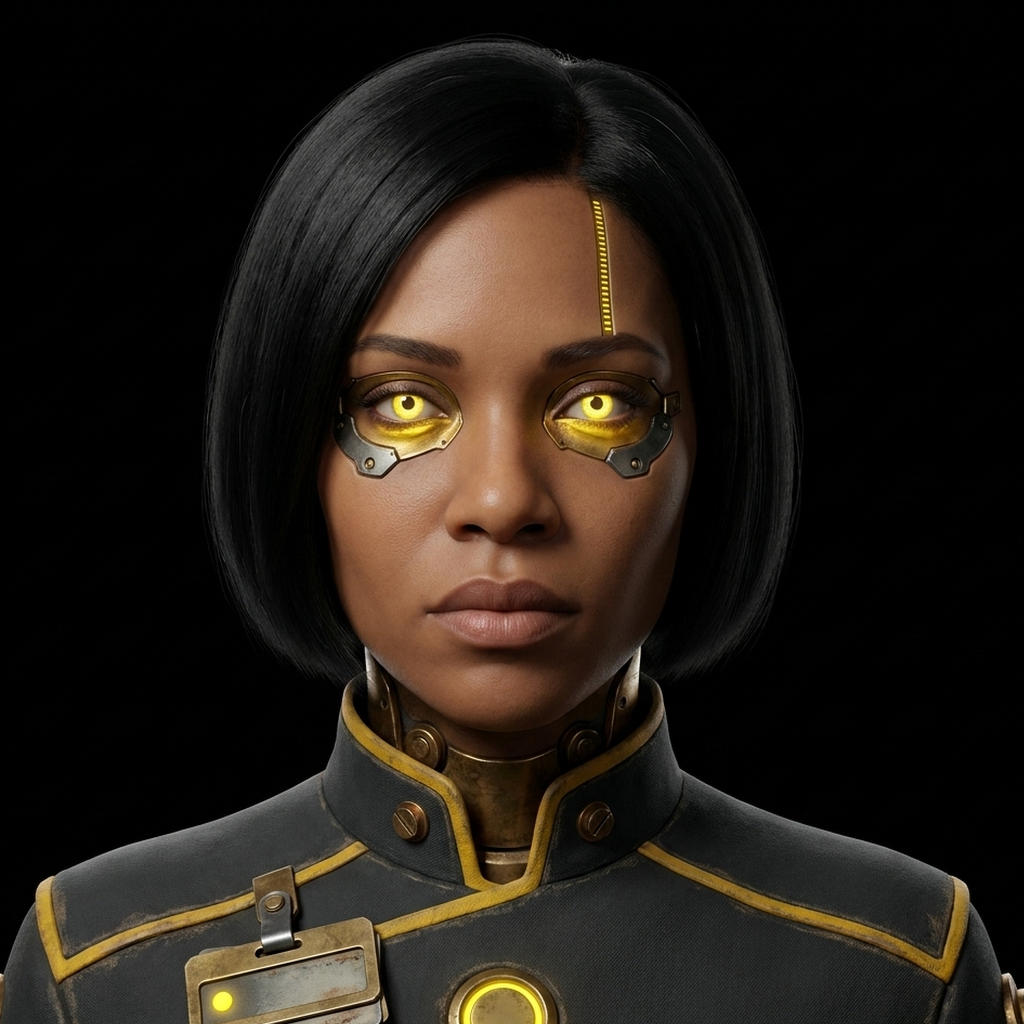
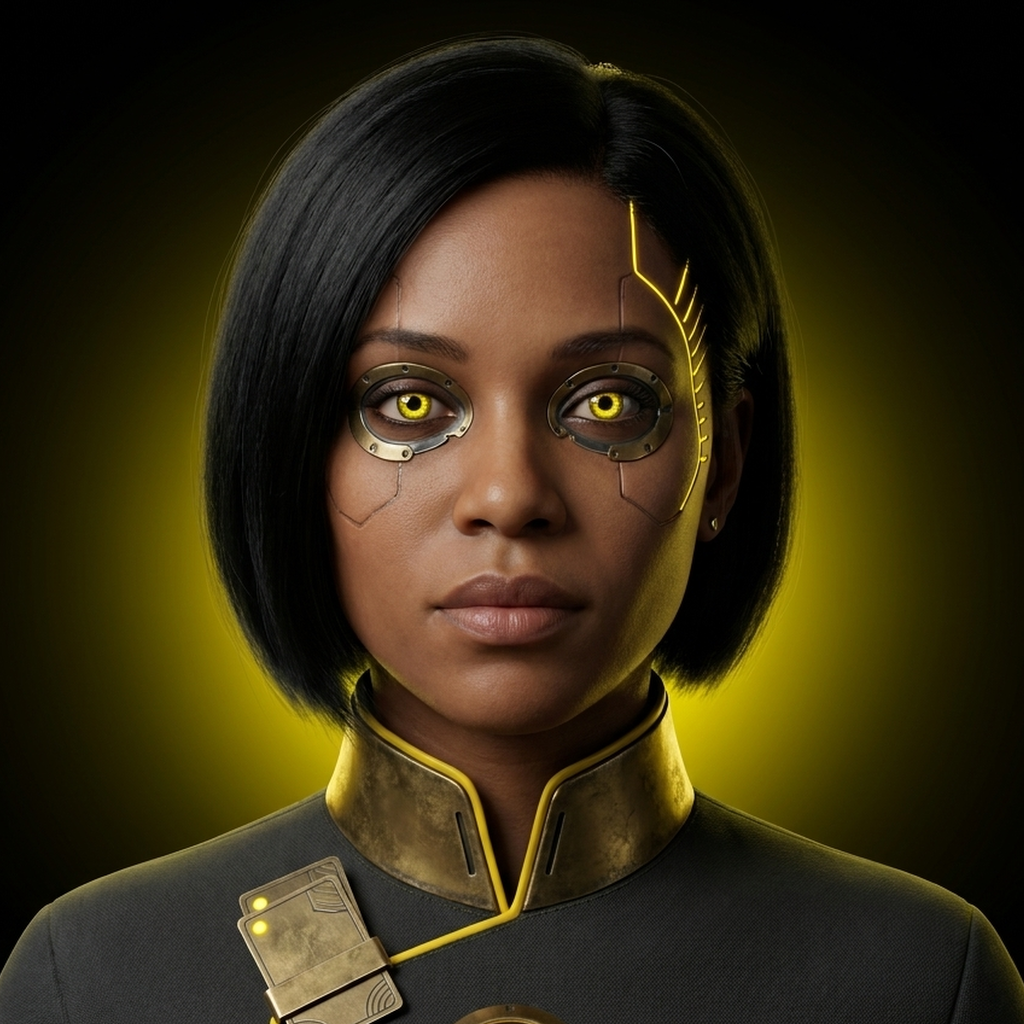
Opposing corrections replace each other, and words keep their onsets
CONTRADICTORY CORRECTIONS. The build accumulates a correction for every failed
check and keeps it forever, which is right for independent defects and was
catastrophic for opposites. A background-glow rebuild handed the model "the glow
was far too faint, make it deep and saturated" AND "the glow flooded the frame,
pull it back" in the SAME prompt — because the render that fixed the first
overshot into the second. brief_drift flagged three contradictory rules and all
four characters came back worse than they started.

Corrections that sit at opposite ends of one axis are now declared in OPPOSING and
supersede each other: the newer one is kept, the older is dropped, and the build
says which contradiction it removed. Independent corrections still accumulate as
before. This was the blocker on the background-glow work.

SKIPPED WORDS. trimSilence cut BOTH ends of every rendered sentence, keeping 25ms
of margin. A word that opens on a soft consonant starts below the 0.004 threshold,
so the onset was being sliced off and the word arrived clipped — heard as whole
words being skipped ("pre-header"). Only multi-sentence lines are trimmed at all,
which matches the symptom exactly: long lines, never short ones.

Now trailing-only. The trailing trim earns its place — it removes the dead air at
the end of a sentence so the inter-sentence gap is the gap we asked for. Cutting
the START buys nothing: a few milliseconds of quiet before a plosive is what a
[…]

diff --git a/macos/Pulsar/Sources/Engine/KokoroVoiceClient.swift b/macos/Pulsar/Sources/Engine/KokoroVoiceClient.swift
@@ -370,12 +370,24 @@ enum KokoroVoiceClient {
     /// configured gap the ONLY thing that sets the pause.
     static func trimSilence(_ samples: [Float], threshold: Float = 0.004,
                             marginMs: Int = 25) -> [Float] {
-        guard let first = samples.firstIndex(where: { abs($0) > threshold }),
-              let last = samples.lastIndex(where: { abs($0) > threshold })
+        // TRAILING ONLY. The leading trim used to cut everything before the first
+        // sample above 0.004, keeping 25ms of margin — and a word that OPENS on a
+        // soft consonant starts below that threshold. The onset was being sliced
+        // off, so the word arrived clipped or, at small volumes, effectively
+        // missing. Justin heard it as whole words being skipped ("pre-header").
+        //
+        // Only multi-sentence lines are trimmed at all, which matches the symptom:
+        // it showed up on long lines and never on short ones.
+        //
+        // The trailing trim is the one that earns its place — it removes the dead
+        // air Kokoro leaves at the end of a sentence so the inter-sentence gap is
+        // the gap we asked for rather than that plus whatever it rendered. Cutting
+        // the START buys nothing: the sentence has to begin somewhere, and a few
+        // milliseconds of quiet before a plosive is what a plosive SOUNDS like.
+        guard let last = samples.lastIndex(where: { abs($0) > threshold })
         else { return samples }
         let margin = sampleRate * marginMs / 1000
-        let lo = max(0, first - margin)
         let hi = min(samples.count - 1, last + margin)
-        return Array(samples[lo...hi])
+        return Array(samples[0...hi])
     }
 }

diff --git a/scripts/cast-generate.py b/scripts/cast-generate.py
@@ -463,12 +463,11 @@ person who runs the room day to day, not the senior counsel who is consulted abo
 
 
 
+
+
+
 === AUTOMATED CORRECTION ===
 MATERIAL FAILURE — the body carried no warm metal and was rejected. Brass, bronze or aged copper is the cast's shared material signature: it must appear on the manufactured parts of the NECK, SHOULDERS AND COLLAR — plate edges, seam bolts, a jack housing, shoulder hardware — as a visible, unmistakable warm metal against the charcoal uniform. Not a faint tint, not a highlight; actual metal you could name.
-
-SILHOUETTE COLLISION — at menu-bar size this character is indistinguishable from a sibling, and was rejected. It must be recognisable as a THUMBNAIL, where all that survives is the outline, the hair mass, the headgear shape and the colour. Push the read-at-a-glance features hard apart from the rest of the cast: a distinctly different hair volume and outline, a different headgear profile, a different shoulder line. Detail that only appears at full resolution does not count.
-
-The character it collided with is MERIDIAN. Study meridian's portrait and move DECISIVELY away from it — different face shape, different hair mass and outline, different headgear profile. PULSAR and MERIDIAN must be tellable apart by outline alone.
 === END CORRECTION ===
 """),
 
@@ -523,6 +522,15 @@ HIS EYEBROWS ARE ORDINARY HUMAN HAIR. Absolutely NO metal brow plate, NO steel e
 NO plated brow ridge, NO hardware of any kind sitting on or replacing the eyebrows — the
 previous render put metal eyebrows on him and they must not appear. Natural grey-flecked
 eyebrows on skin. His machine seams stay on the temples, cheekbones and jaw, never the brow.
+
+
+
+
+=== AUTOMATED CORRECTION ===
+GLOW FAILURE — the last render was too bright and was rejected. Cut the emissive area back hard: keep the lit lining fine and thin, keep facial grooves narrow, and let the irises be the brightest thing. No broad blooms, no wide washes of colour, no glowing areas larger than a fingertip apart from the eyes.
+
+BACKGROUND GLOW FAILURE — the coloured haze behind this character was far too faint and was rejected. Every unit in the cast sits against BLACK WITH A CLEAR GLOW OF ITS OWN COLOUR behind the head and shoulders — deep, saturated and obvious, like a coloured light source hidden behind them. Not a hint, not a tint, not a grey background with a suggestion of colour. It must read as that character's colour at a glance, while still fading to pure black before the edges of the frame.
+=== END CORRECTION ===
 """),
 
 
@@ -1150,6 +1158,19 @@ the walkie-talkie comms reference works and is her signature.
 UNIFORM TIER — EXECUTIVE: the standard charcoal tunic worn plain, pressed and closed to the
 throat, with coral piping at the collar and yoke seam. No webbing, no armour, no added straps —
 her only carried item is the shoulder-clipped broadcast handset.
+
+
+
+
+=== AUTOMATED CORRECTION ===
+GLOW FAILURE — the last render was too bright and was rejected. Cut the emissive area back hard: keep the lit lining fine and thin, keep facial grooves narrow, and let the irises be the brightest thing. No broad blooms, no wide washes of colour, no glowing areas larger than a fingertip apart from the eyes.
+
+BACKGROUND COLOUR FAILURE — the glow behind this character was the WRONG HUE and was rejected. The haze behind the head must be the character's own locked colour stated at the end of this prompt — the SAME colour as their irises and their lit uniform lining, not a neighbouring or complementary shade.
+
+FACE COLLISION — the underlying facial geometry is too close to another character's and was rejected by a landmark-distance check. Rebuild the face from different bones: change the face SHAPE (long vs square vs heart vs round), the eye spacing and set, the nose length and bridge width, the mouth width, the jaw angle and the brow height. Two people with different hair and the same skull are the same person in a wig.
+
+The character it collided with is VECTOR. Study vector's portrait and move DECISIVELY away from it — different face shape, different hair mass and outline, different headgear profile. IRIS and VECTOR must be tellable apart by outline alone.
+=== END CORRECTION ===
 """),
 
 
@@ -1272,6 +1293,17 @@ complexion. Give him a NEATLY TRIMMED SILVER BEARD — full but close-cropped, c
 jaw and chin. He is the only bearded unit in the cast and that beard is what separates him
 from Pulsar at any size. It must not cross the lips: the moustache is trimmed clear of the
 upper lip and the mouth is fully visible, because these frames have to animate speech.
+
+
+
+
+=== AUTOMATED CORRECTION ===
+GLOW FAILURE — the last render was too bright and was rejected. Cut the emissive area back hard: keep the lit lining fine and thin, keep facial grooves narrow, and let the irises be the brightest thing. No broad blooms, no wide washes of colour, no glowing areas larger than a fingertip apart from the eyes.
+
+BACKGROUND GLOW FAILURE — the coloured haze behind this character was far too faint and was rejected. Every unit in the cast sits against BLACK WITH A CLEAR GLOW OF ITS OWN COLOUR behind the head and shoulders — deep, saturated and obvious, like a coloured light source hidden behind them. Not a hint, not a tint, not a grey background with a suggestion of colour. It must read as that character's colour at a glance, while still fading to pure black before the edges of the frame.
+
+BACKGROUND COLOUR FAILURE — the glow behind this character was the WRONG HUE and was rejected. The haze behind the head must be the character's own locked colour stated at the end of this prompt — the SAME colour as their irises and their lit uniform lining, not a neighbouring or complementary shade.
+=== END CORRECTION ===
 """),
 
 
@@ -1319,6 +1351,19 @@ on the topmost priority card. Plus the lit lining of the uniform.
 
 UNIFORM TIER — EXECUTIVE: the standard charcoal tunic worn plain and immaculate, closed to the
 throat, with signal-red piping. No webbing, no armour, no added gear beyond the card-frame.
+
+
+
+
+=== AUTOMATED CORRECTION ===
+GLOW FAILURE — the last render was too bright and was rejected. Cut the emissive area back hard: keep the lit lining fine and thin, keep facial grooves narrow, and let the irises be the brightest thing. No broad blooms, no wide washes of colour, no glowing areas larger than a fingertip apart from the eyes.
+
+FACE COLLISION — the underlying facial geometry is too close to another character's and was rejected by a landmark-distance check. Rebuild the face from different bones: change the face SHAPE (long vs square vs heart vs round), the eye spacing and set, the nose length and bridge width, the mouth width, the jaw angle and the brow height. Two people with different hair and the same skull are the same person in a wig.
+
+The character it collided with is IRIS. Study iris's portrait and move DECISIVELY away from it — different face shape, different hair mass and outline, different headgear profile. VECTOR and IRIS must be tellable apart by outline alone.
+
+BACKGROUND GLOW FAILURE — the coloured haze behind this character was far too faint and was rejected. Every unit in the cast sits against BLACK WITH A CLEAR GLOW OF ITS OWN COLOUR behind the head and shoulders — deep, saturated and obvious, like a coloured light source hidden behind them. Not a hint, not a tint, not a grey background with a suggestion of colour. It must read as that character's colour at a glance, while still fading to pure black before the edges of the frame.
+=== END CORRECTION ===
 """),
 
 

diff --git a/scripts/cast-build.py b/scripts/cast-build.py
@@ -290,19 +290,52 @@ def gate():
 
 
 ACCUMULATED = {}
+ACCUMULATED_KEYS = {}
 
 
-def inject(drone, notes):
+# Corrections that are OPPOSITE ENDS OF ONE AXIS. Only the newest of each group
+# may be in a brief at a time — they must REPLACE each other, never stack.
+#
+# Accumulating everything was right for independent defects and catastrophic for
+# these. A background-glow rebuild handed the model "the glow was far too faint,
+# make it deep and saturated" AND "the glow flooded the frame, pull it back" in the
+# same prompt, because the first render overshot the fix for the second. The model
+# got both instructions at once, brief_drift flagged three contradictory rules, and
+# all four characters came back worse than they started.
+OPPOSING = [
+    {"glow too weak", "glow too strong"},
+    {"eyes dim", "glow"},
+    {"IOD", "eyeCy"},
+]
+
+
+def _supersedes(new_key, old_key):
+    """True when new_key and old_key are opposite ends of the same axis."""
+    return any(new_key in g and old_key in g and new_key != old_key for g in OPPOSING)
+
+
+def inject(drone, notes, keys=()):
     """Add corrections to a character's brief, KEEPING every earlier one.
 
     Replacing the block each round made defects oscillate: a character that stopped
     failing the orb check lost its orb instruction and grew the orb straight back on
-    the following round. A correction, once earned, stays.
+    the following round. A correction, once earned, stays — UNLESS its opposite
+    arrives, in which case the newer one wins and the older is dropped. See OPPOSING.
     """
     prior = ACCUMULATED.setdefault(drone, [])
-    for nt in notes:
+    prior_keys = ACCUMULATED_KEYS.setdefault(drone, [])
+    for nt, key in zip(notes, keys or [None] * len(notes)):
+        if key:
+            # Drop anything this correction contradicts before adding it.
+            for i in range(len(prior_keys) - 1, -1, -1):
+                if prior_keys[i] and _supersedes(key, prior_keys[i]):
+                    print(f"    {drone}: '{key}' supersedes '{prior_keys[i]}' — "
+                          f"dropping the contradiction")
+                    prior.pop(i)
+                    prior_keys.pop(i)
         if nt not in prior:
             prior.append(nt)
+            prior_keys.append(key)
     notes = prior
     p = os.path.join(SCRIPTS, "cast-generate.py")
     s = open(p).read()
@@ -438,11 +471,12 @@ for rnd in range(1, a.rounds + 1):
               "stopping rather than re-rolling an approved face")
         break
     for d, fs in fails.items():
-        notes = []
+        notes, keys = [], []
         for f in fs:
             for key, text in CORRECTIONS.items():
                 if key in f and text not in notes:
                     notes.append(text)
+                    keys.append(key)
             # Name the sibling it collided with. "Differ from another character"
             # is not an instruction a renderer can follow; "differ from Meridian,
             # who has X" is. The gate already knows who — pass it through.
@@ -455,8 +489,9 @@ for rnd in range(1, a.rounds + 1):
                       f"{d.upper()} and {other.upper()} must be tellable apart by outline alone.")
                 if nt not in notes:
                     notes.append(nt)
+                    keys.append(None)
         if notes:
-            inject(d, notes)
+            inject(d, notes, keys)
     print()
 
 print()
